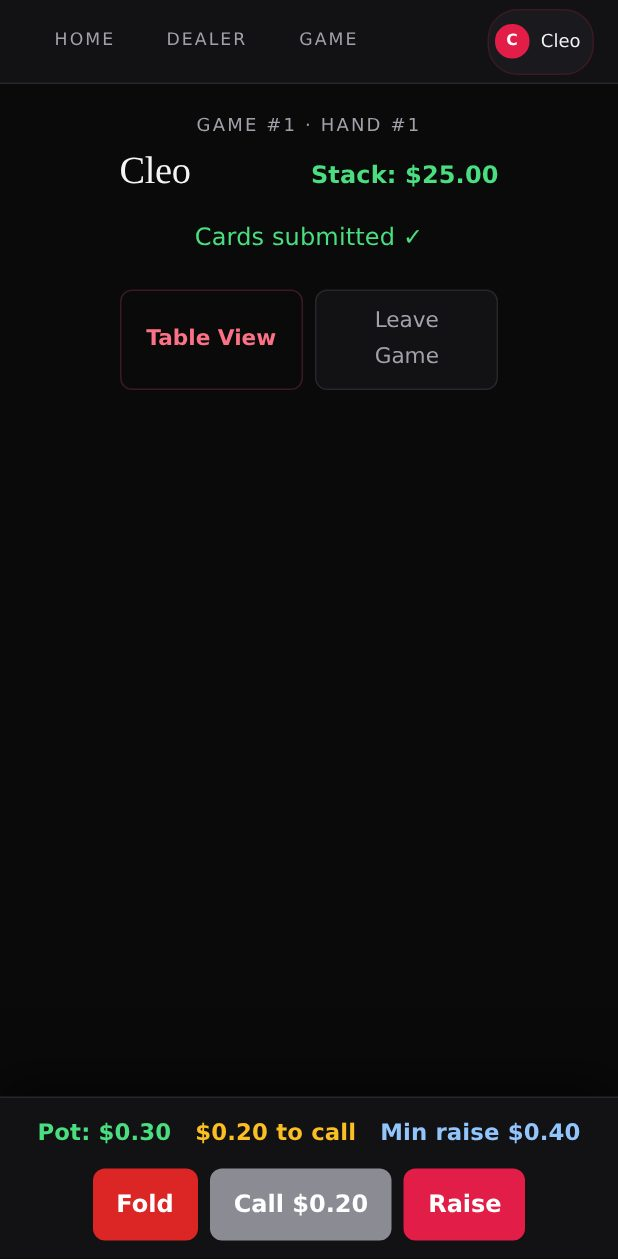
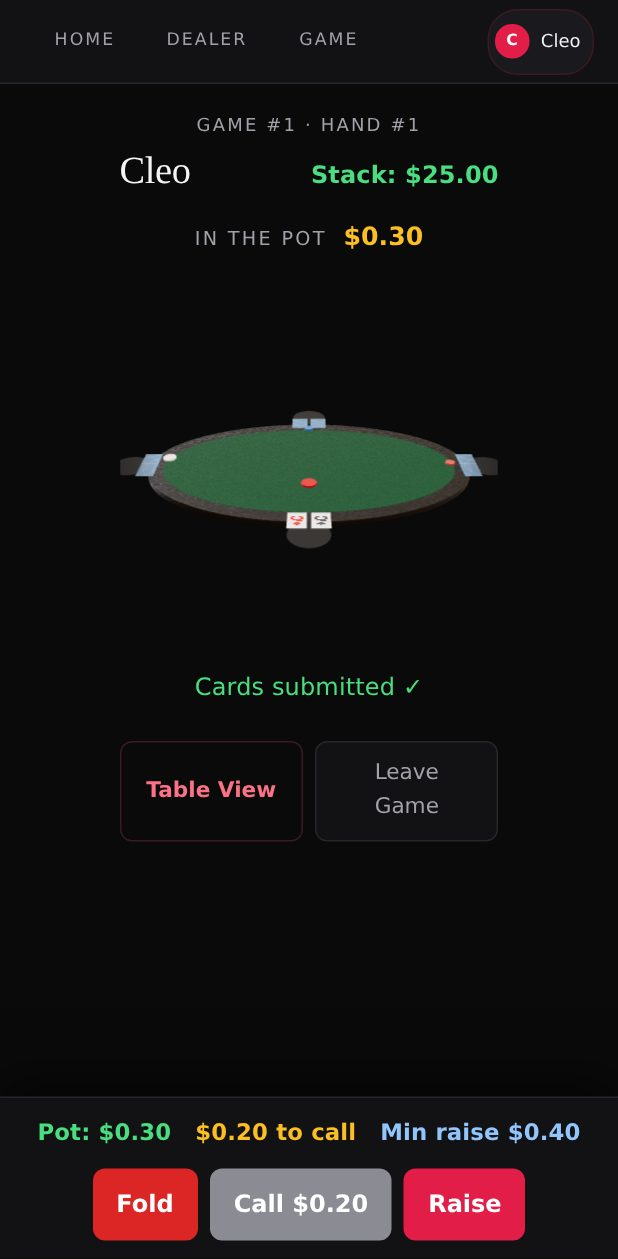
feat(player): live table embedded in the player screen, faded into the background

diff --git a/frontend/src/player/PlayerTableEmbed.tsx b/frontend/src/player/PlayerTableEmbed.tsx
@@ -1,0 +1,81 @@
+// The player's own-seat view of the live table, embedded in the player
+// screen so the cards, pot and actions are all in view without leaving it.
+// Same scene and hole-card rules as the full-screen player table
+// (`viewer.policy = 'player'`, equity overlay forced off); it always follows
+// the latest hand and has no scrubber.
+import { useMemo, type CSSProperties } from 'react';
+import { useQuery } from '@tanstack/react-query';
+
+import { fetchGame } from '../api/client.ts';
+import { useHandPolling } from '../hooks/useHandPolling.ts';
+import { PokerCanvas } from '../scenes3d/PokerCanvas.tsx';
+import { PokerTable } from '../scenes3d/PokerTable.tsx';
+import { handsToTableState, resolveSeatMap } from '../scenes3d/data/handsToTableState.ts';
+import type { ViewerContext } from '../scenes3d/types';
+
+export interface PlayerTableEmbedProps {
+  gameId: number;
+  playerName: string;
+}
+
+export function PlayerTableEmbed({ gameId, playerName }: PlayerTableEmbedProps) {
+  const { data: game } = useQuery({
+    queryKey: ['game', gameId],
+    queryFn: () => fetchGame(gameId),
+  });
+  const { hands } = useHandPolling({ gameId, currentHandIndex: -1 });
+  const hand = hands.length > 0 ? hands[hands.length - 1] : null;
+
+  const seat = useMemo<number | null>(() => {
+    if (!game || !hand) return null;
+    return resolveSeatMap(game, hand).get(playerName) ?? null;
+  }, [game, hand, playerName]);
+
+  const viewer = useMemo<ViewerContext>(
+    () => (seat !== null ? { policy: 'player', seat } : { policy: 'player' }),
+    [seat],
+  );
+
+  const tableState = useMemo(() => {
+    if (!game || !hand) return null;
+    return handsToTableState({ game, hand, viewer });
+  }, [game, hand, viewer]);
+
+  if (!tableState) return null;
+
+  return (
+    <div data-testid="player-table-embed" style={styles.wrap}>
+      <div style={styles.zoom}>
+        <PokerCanvas>
+          <PokerTable
+            state={tableState}
+            viewer={viewer}
+            equityOverlay={false}
+            cameraPreset={seat !== null ? { kind: 'seat', seat } : 'default'}
+          />
+        </PokerCanvas>
+      </div>
+    </div>
+  );
+}
+
+const styles: Record<string, CSSProperties> = {
+  // The scene frames the whole room; zoom in so the table fills the width.
+  zoom: {
+    position: 'absolute',
+    width: '145%',
+    height: '145%',
+    left: '-22.5%',
+    top: '-22.5%',
+  },
+  wrap: {
+    position: 'relative',
+    width: '100%',
+    height: 'clamp(200px, 30dvh, 300px)',
+    margin: '0 0 0.5rem',
+    overflow: 'hidden',
+    // Fade the canvas into the page so the table floats on the background.
+    WebkitMaskImage: 'radial-gradient(ellipse 72% 70% at 50% 50%, #000 55%, transparent 100%)',
+    maskImage: 'radial-gradient(ellipse 72% 70% at 50% 50%, #000 55%, transparent 100%)',
+  },
+};

diff --git a/frontend/src/player/PlayerApp.tsx b/frontend/src/player/PlayerApp.tsx
@@ -19,6 +19,7 @@ import { PlayerActionButtons } from './PlayerActionButtons.tsx';
 import { usePolling } from '../hooks/usePolling.ts';
 import { usePlayerStore } from '../stores/playerStore';
 import { theme } from '../theme';
+import { PlayerTableEmbed } from './PlayerTableEmbed.tsx';
 
 export const PLAYER_SESSION_KEY = 'aia-player-session';
 
@@ -98,6 +99,9 @@ function PlayerStatusView({ status, onCapture }: PlayerStatusViewProps) {
       return <p style={{ color: theme.muted }}>Waiting for hand…</p>;
   }
 }
+
+// Environments without WebGL (tests, very old browsers) just skip the table.
+const canRenderWebGL = typeof WebGLRenderingContext !== 'undefined';
 
 export function PlayerApp() {
   const [step, setStep] = useState<PlayerStep>('gameSelect');
@@ -336,6 +340,10 @@ export function PlayerApp() {
           <p data-testid="player-pot" style={styles.potLine}>
             In the pot <span style={styles.potAmount}>${pot.toFixed(2)}</span>
           </p>
+        )}
+
+        {!captureStep && !noActiveHand && handNumber && gameId && canRenderWebGL && (
+          <PlayerTableEmbed gameId={gameId} playerName={playerName} />
         )}
 
         {captureStep === 'camera' && gameId && (
